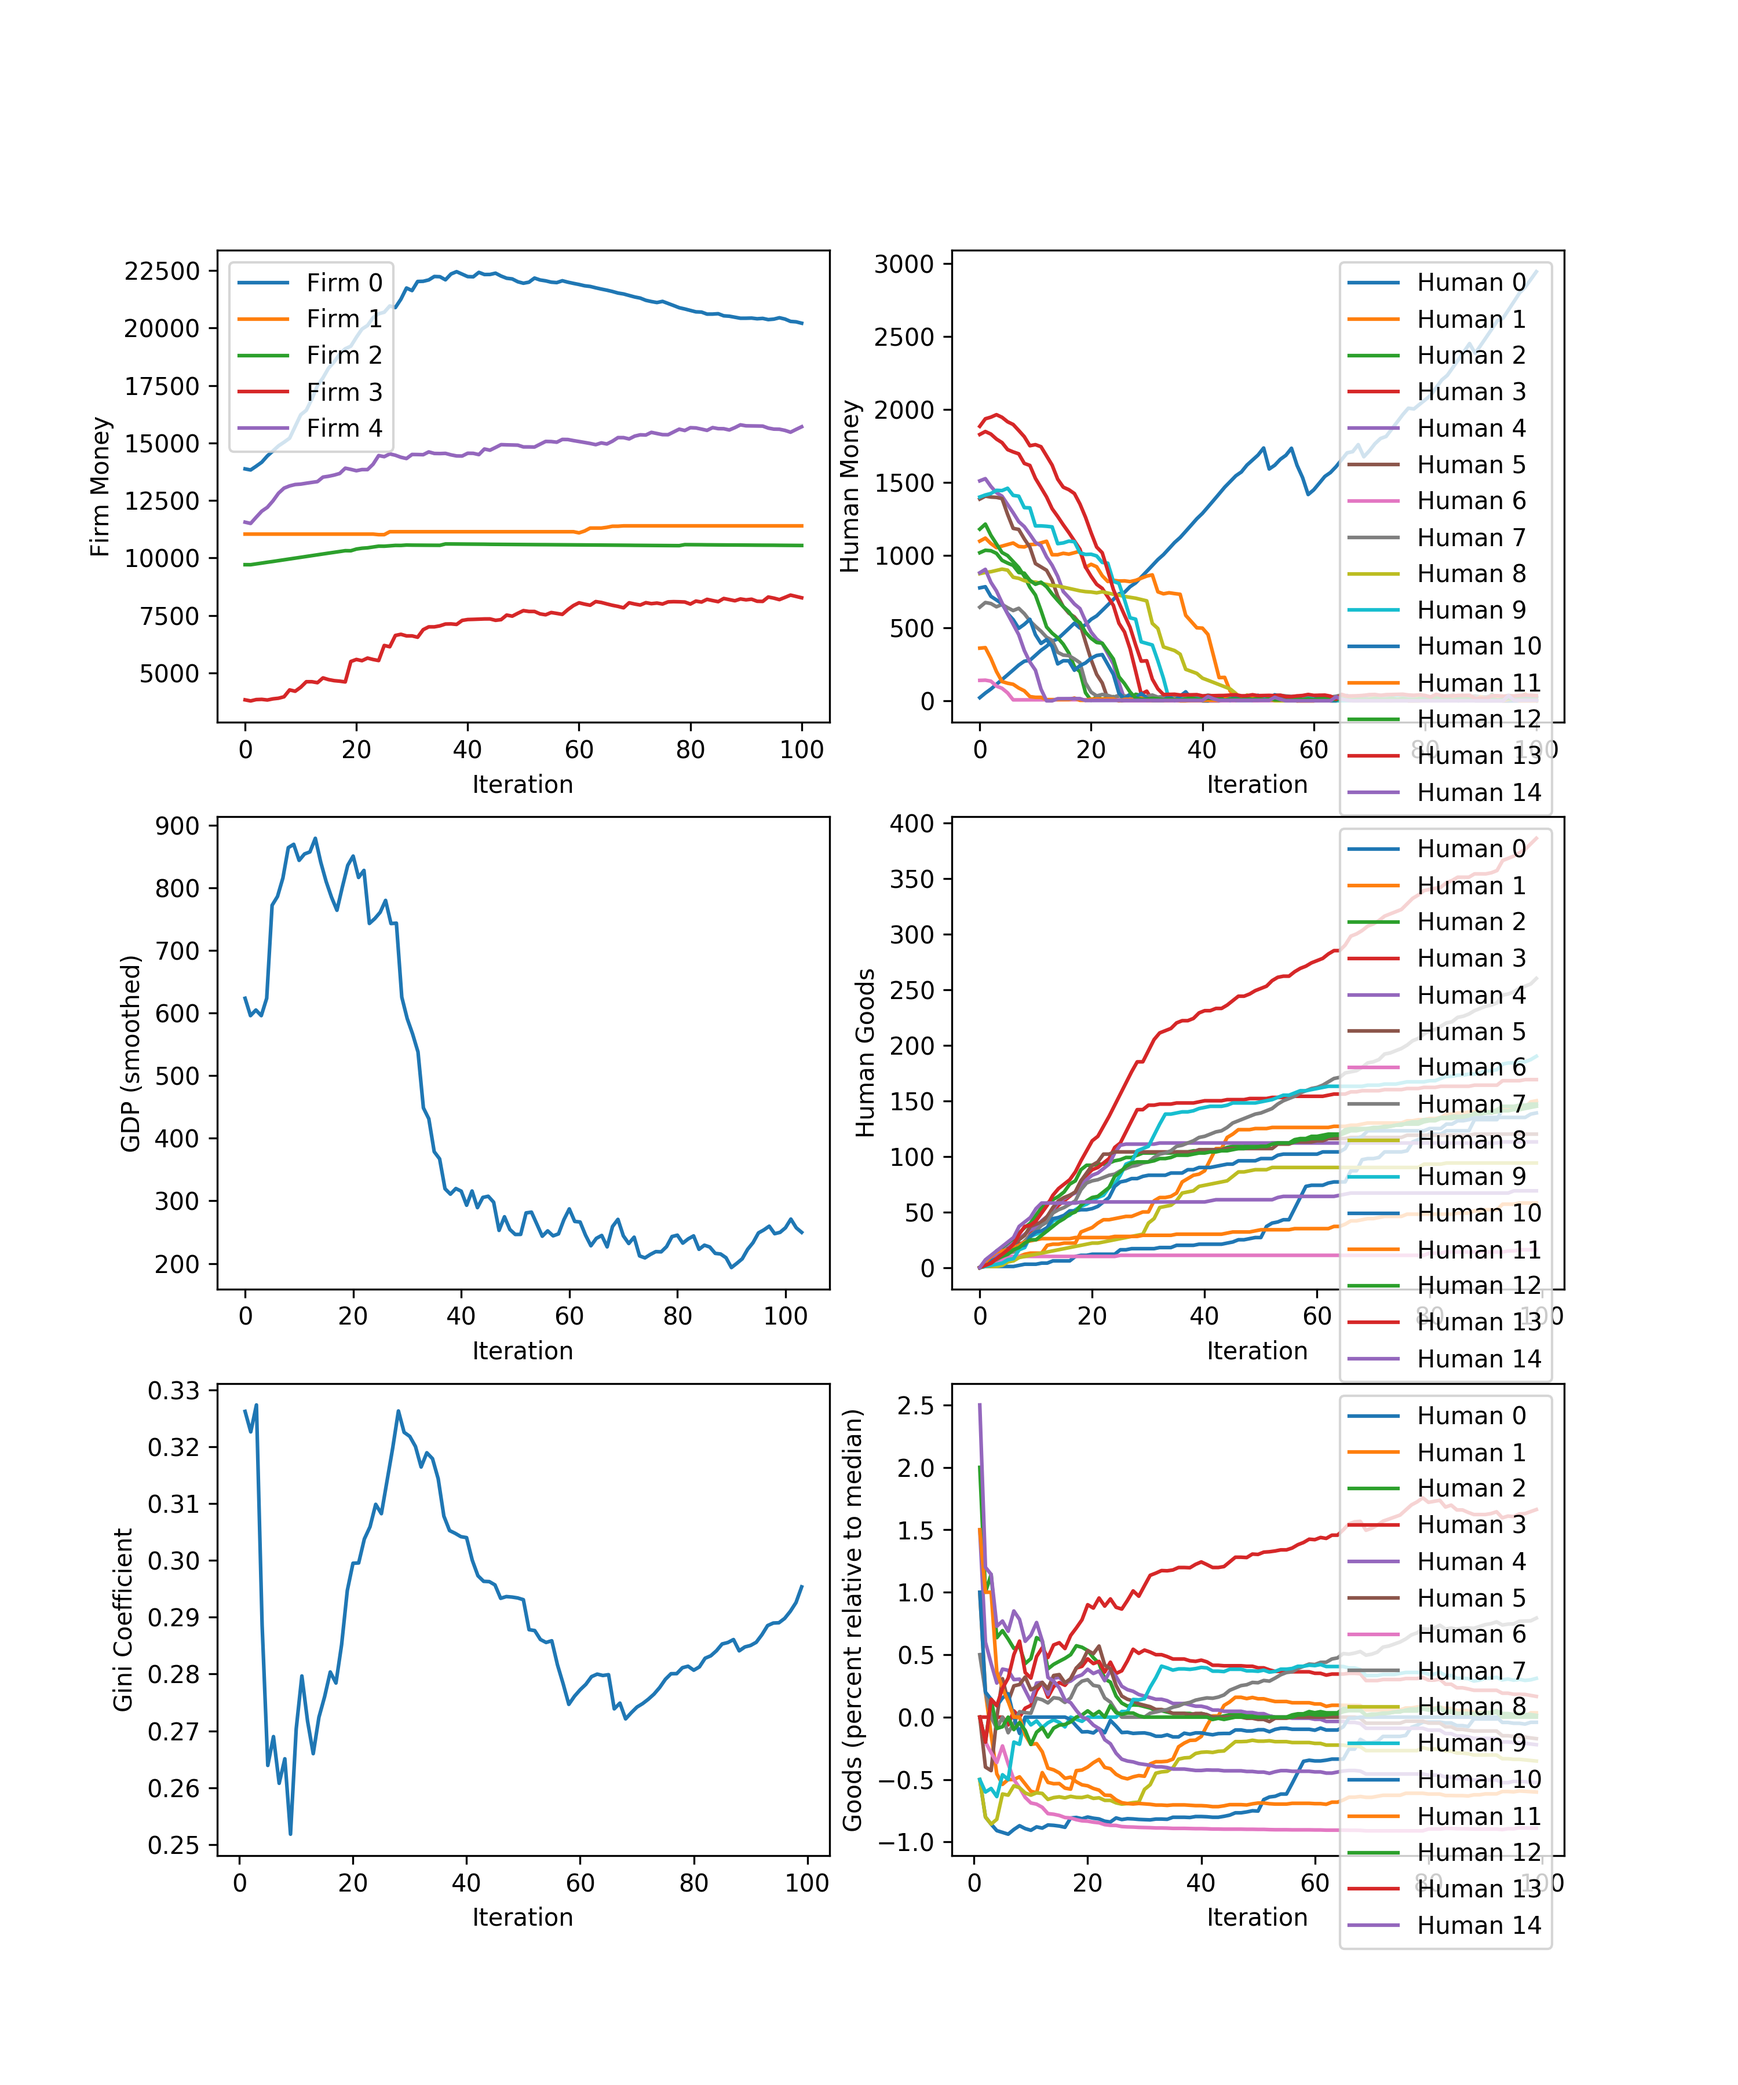
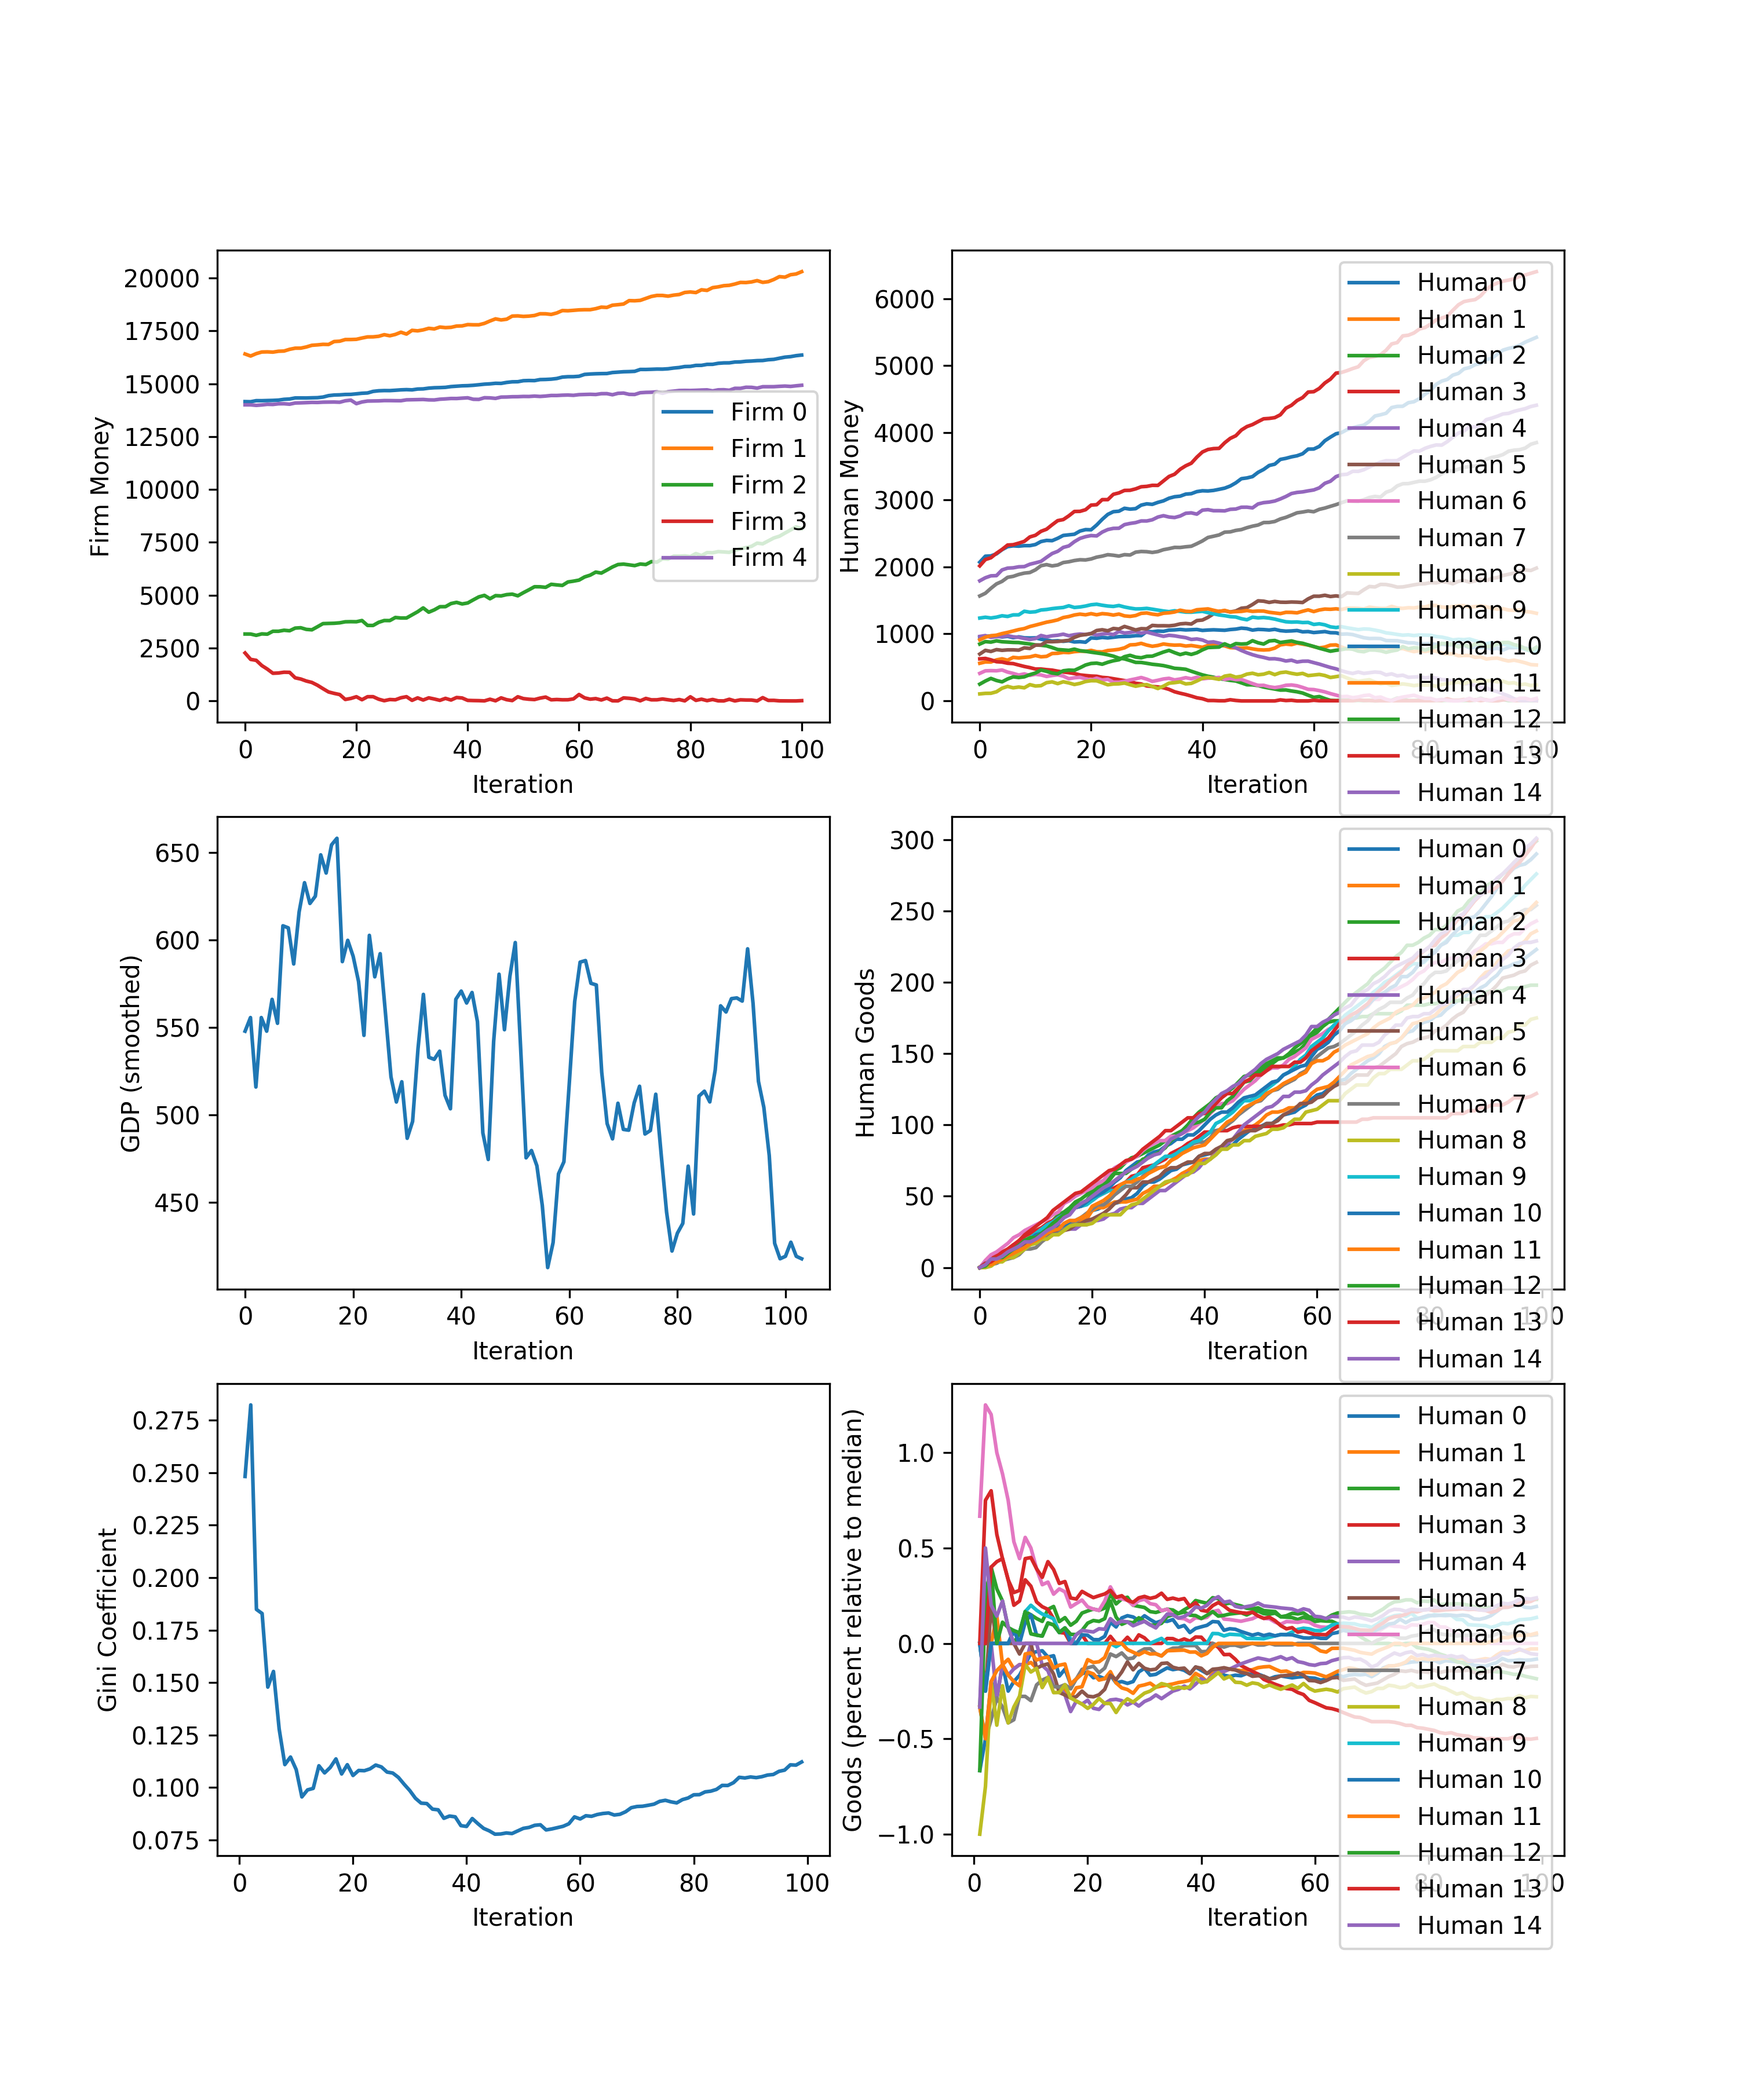
fixed linear

diff --git a/model.py b/model.py
@@ -13,15 +13,16 @@ class Model:
         self.total_money_people = TOTAL_MONEY_PEOPLE
         self.total_money_firms = TOTAL_MONEY_FIRMS
 
-    def create_firms(self, num_firms, distribution=rand_uniform, rltype=RLType.DEEPQ):
+    def create_firms(self, num_firms, distribution=rand_uniform, rltype=RLType.DEEPQ, 
+        demand_curve_shape=DemandCurveShape.RECIPROCAL):
         # Creates the firms, with distribution of money over firms
         money_coefficients = distribution(num_firms)
         for i in range(num_firms):
-            f = FirmAgent(self.total_money_firms * money_coefficients[i], rltype)
+            f = FirmAgent(self.total_money_firms * money_coefficients[i], rltype, demand_curve_shape=demand_curve_shape)
             self.firms.append(f)
 
     def create_people(self, num_people, dist=rand_uniform, skill_dist=normal(1.0, 0.1), 
-        rltype=RLType.DEEPQ):
+        rltype=RLType.DEEPQ, demand_curve_shape=DemandCurveShape.RECIPROCAL):
         # Creates the people, with distribution over money
         money_coefficients = dist(num_people)
         skill_coefficients = skill_dist(num_people)
@@ -29,7 +30,8 @@ class Model:
             p = PersonAgent(
                 self.total_money_people * money_coefficients[i],
                 skill_coefficients[i],
-                rltype
+                rltype,
+                demand_curve_shape=demand_curve_shape
             )
             self.people.append(p)
 

diff --git a/person.py b/person.py
@@ -16,7 +16,13 @@ class PersonAgent(Agent):
         self.num_hours_to_work = WORK_HOURS_PER_PERSON
 
         state_dim = 2 * NUM_FIRMS + NUM_PEOPLE 
-        action_dim = POSSIBLE_UNITS_PERSON.shape[0] * POSSIBLE_PRICES_PERSON.shape[0] * POSSIBLE_RECIP_DEMAND_PARAMS_PERSON.shape[0] 
+        demand_params = None
+        if self.demand_curve_shape == DemandCurveShape.RECIPROCAL:
+            demand_params = POSSIBLE_RECIP_DEMAND_PARAMS_PERSON
+        elif self.demand_curve_shape == DemandCurveShape.LINEAR:
+            demand_params = POSSIBLE_LIN_DEMAND_PARAMS_PERSON
+
+        action_dim = POSSIBLE_UNITS_PERSON.shape[0] * POSSIBLE_PRICES_PERSON.shape[0] * demand_params.shape[0] 
         if self.rltype == RLType.REINFORCE:
             self.policy_net = ReinforcePolicyGradient(state_dim, action_dim)
         elif self.rltype == RLType.Q_ACTOR_CRITIC:

diff --git a/firm.py b/firm.py
@@ -15,8 +15,13 @@ class FirmAgent(Agent):
         self.money_paid = []
 
         state_dim = 2 * NUM_FIRMS + NUM_PEOPLE 
-        action_dim = POSSIBLE_UNITS_FIRM.shape[0] * POSSIBLE_PRICES_FIRM.shape[0] * POSSIBLE_RECIP_DEMAND_PARAMS_FIRM.shape[0] 
+        demand_params = None
+        if self.demand_curve_shape == DemandCurveShape.RECIPROCAL:
+            demand_params = POSSIBLE_RECIP_DEMAND_PARAMS_PERSON
+        elif self.demand_curve_shape == DemandCurveShape.LINEAR:
+            demand_params = POSSIBLE_LIN_DEMAND_PARAMS_PERSON
 
+        action_dim = POSSIBLE_UNITS_FIRM.shape[0] * POSSIBLE_PRICES_FIRM.shape[0] * demand_params.shape[0] 
         if self.rltype == RLType.REINFORCE:
             self.policy_net = ReinforcePolicyGradient(state_dim, action_dim)
         elif self.rltype == RLType.Q_ACTOR_CRITIC:

diff --git a/main.py b/main.py
@@ -18,8 +18,8 @@ def trivial_test():
 
 def reinforce_test():
     m = model.Model(10000)
-    m.create_firms(NUM_FIRMS, rltype=RLType.REINFORCE)
-    m.create_people(NUM_PEOPLE, rltype=RLType.REINFORCE)
+    m.create_firms(NUM_FIRMS, rltype=RLType.REINFORCE, demand_curve_shape=DemandCurveShape.LINEAR)
+    m.create_people(NUM_PEOPLE, rltype=RLType.REINFORCE, demand_curve_shape=DemandCurveShape.LINEAR)
     num_iters = 75
     avg_GDP = []
     for i in range(num_iters):

diff --git a/paper/paper.tex b/paper/paper.tex
@@ -241,6 +241,9 @@ During training, we generally use a learning rate of $\alpha = 0.01$.
 
 
 \subsubsection{REINFORCE Policy Gradient******}
+Perhaps the most basic policy gradient method is the REINFORCE algorithm. This algorithm uses a Monte Carlo-type approach to gathering training data. During each episode, the agent follows 
+
+
 
 
 
